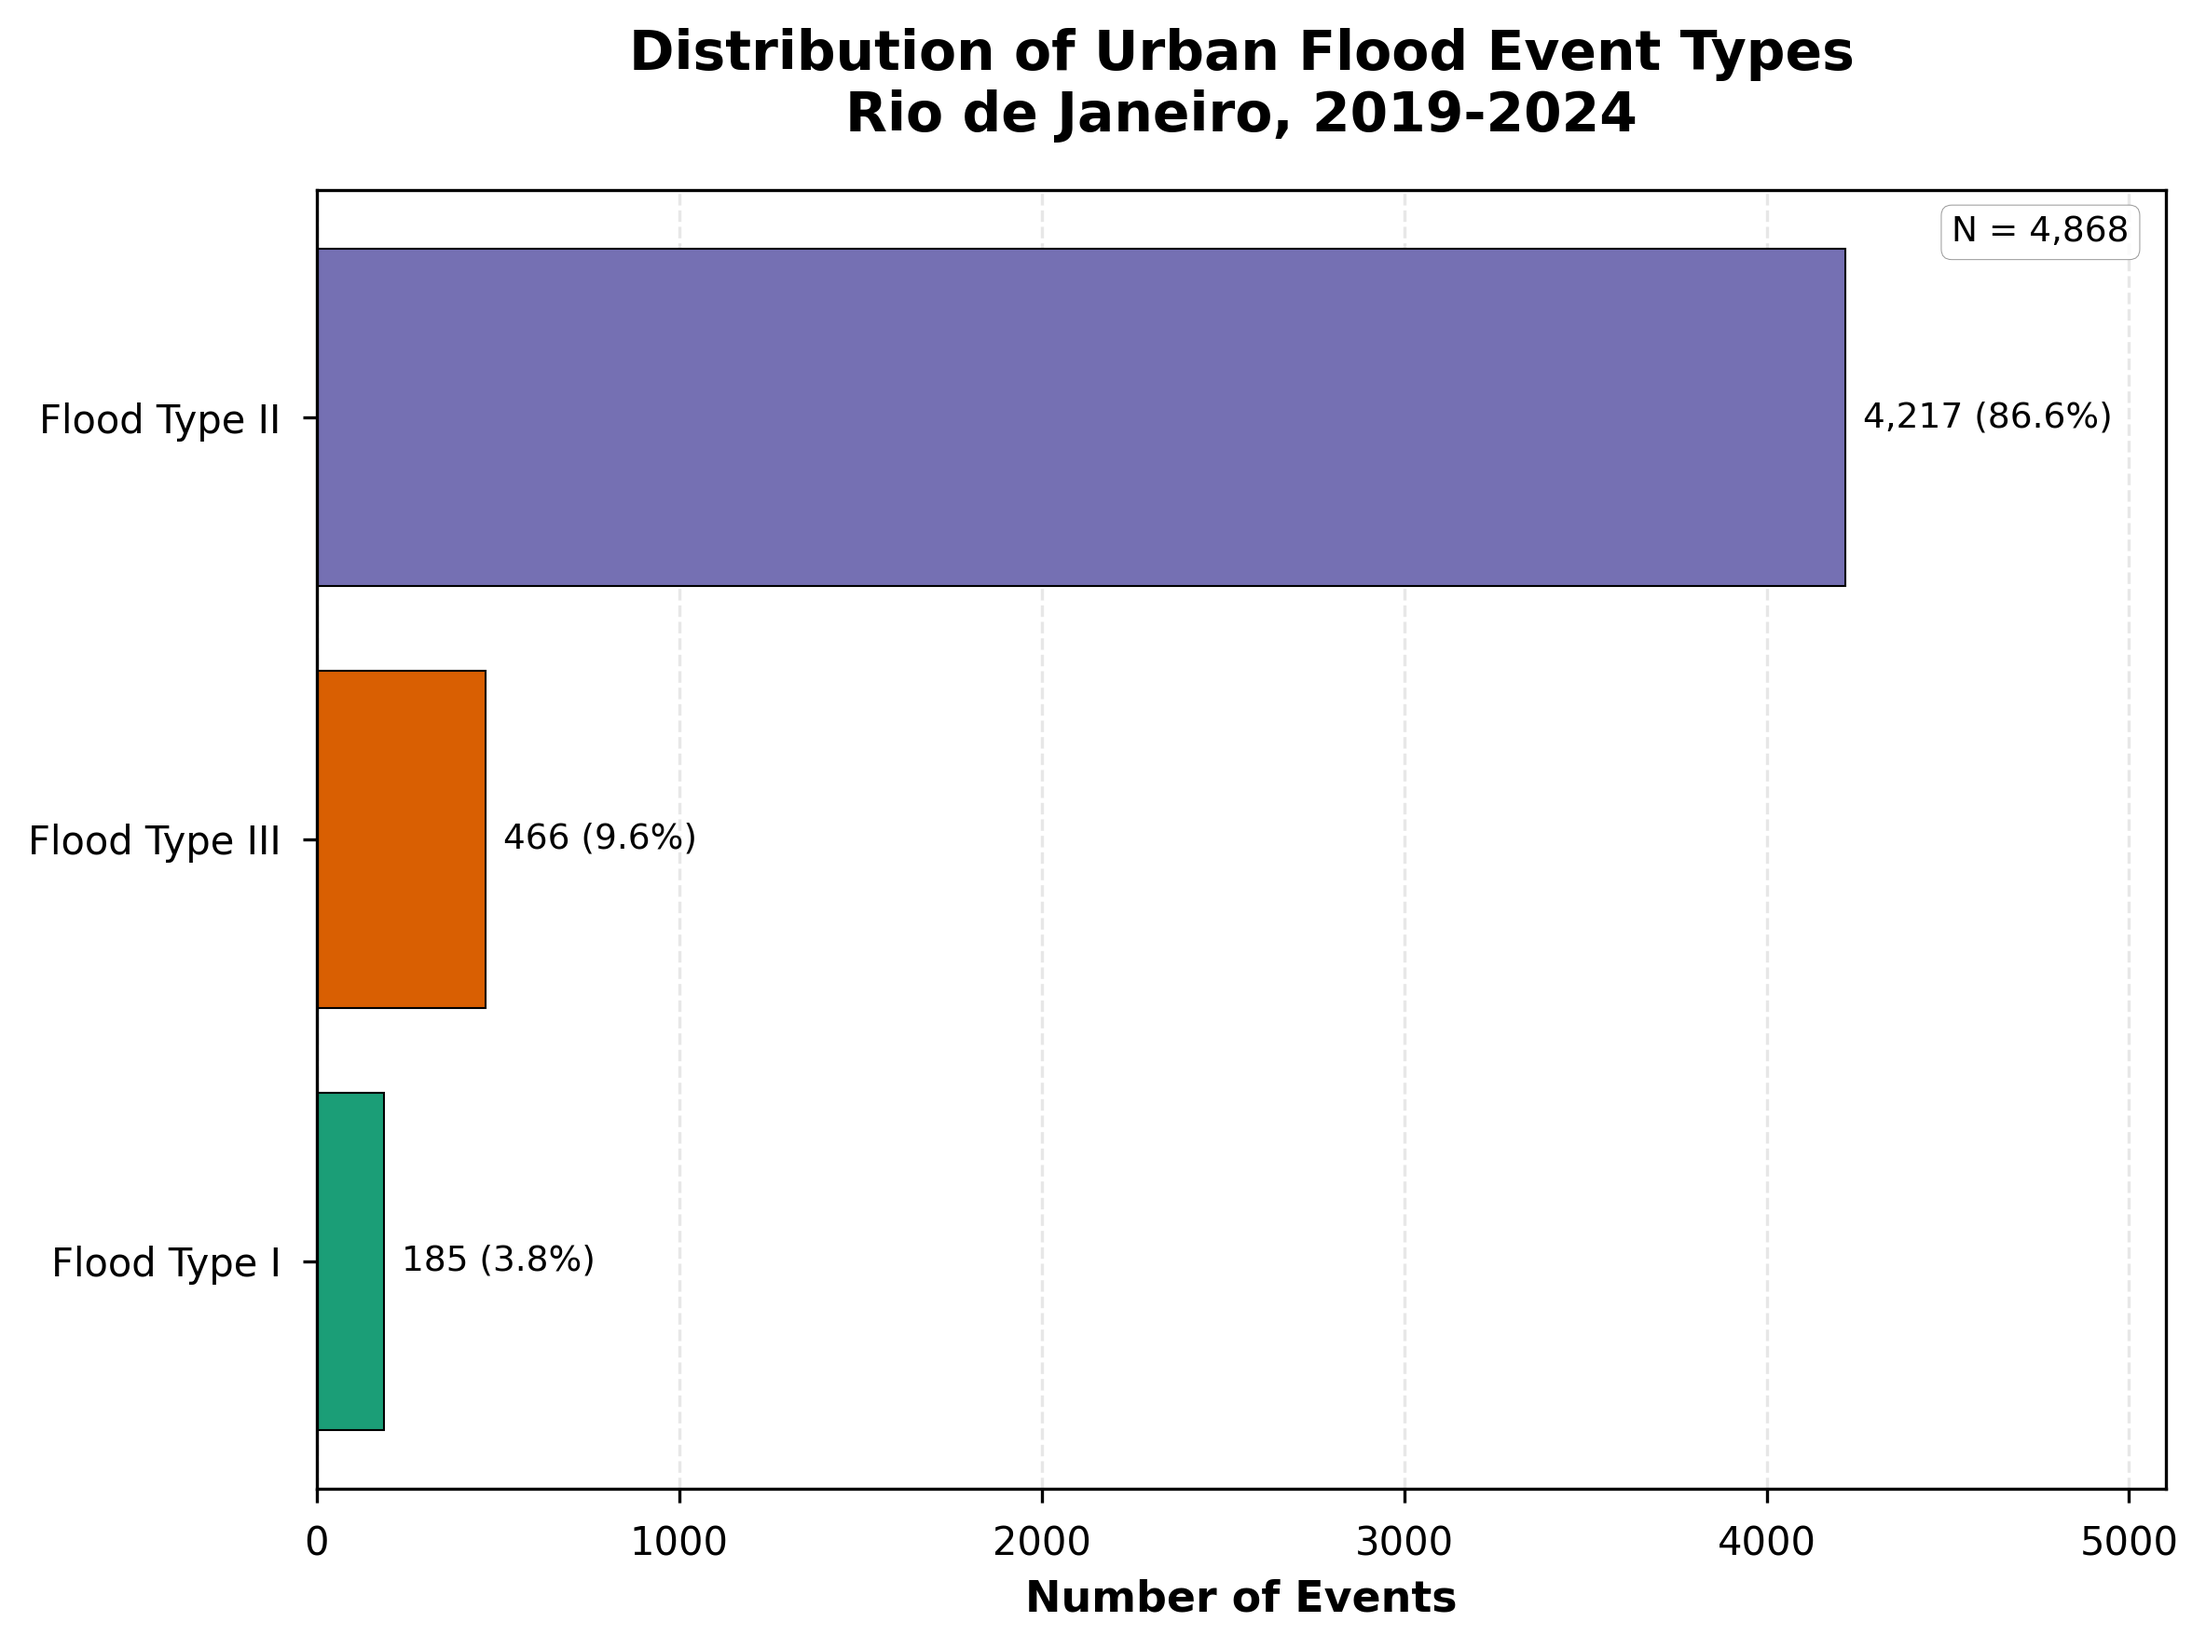
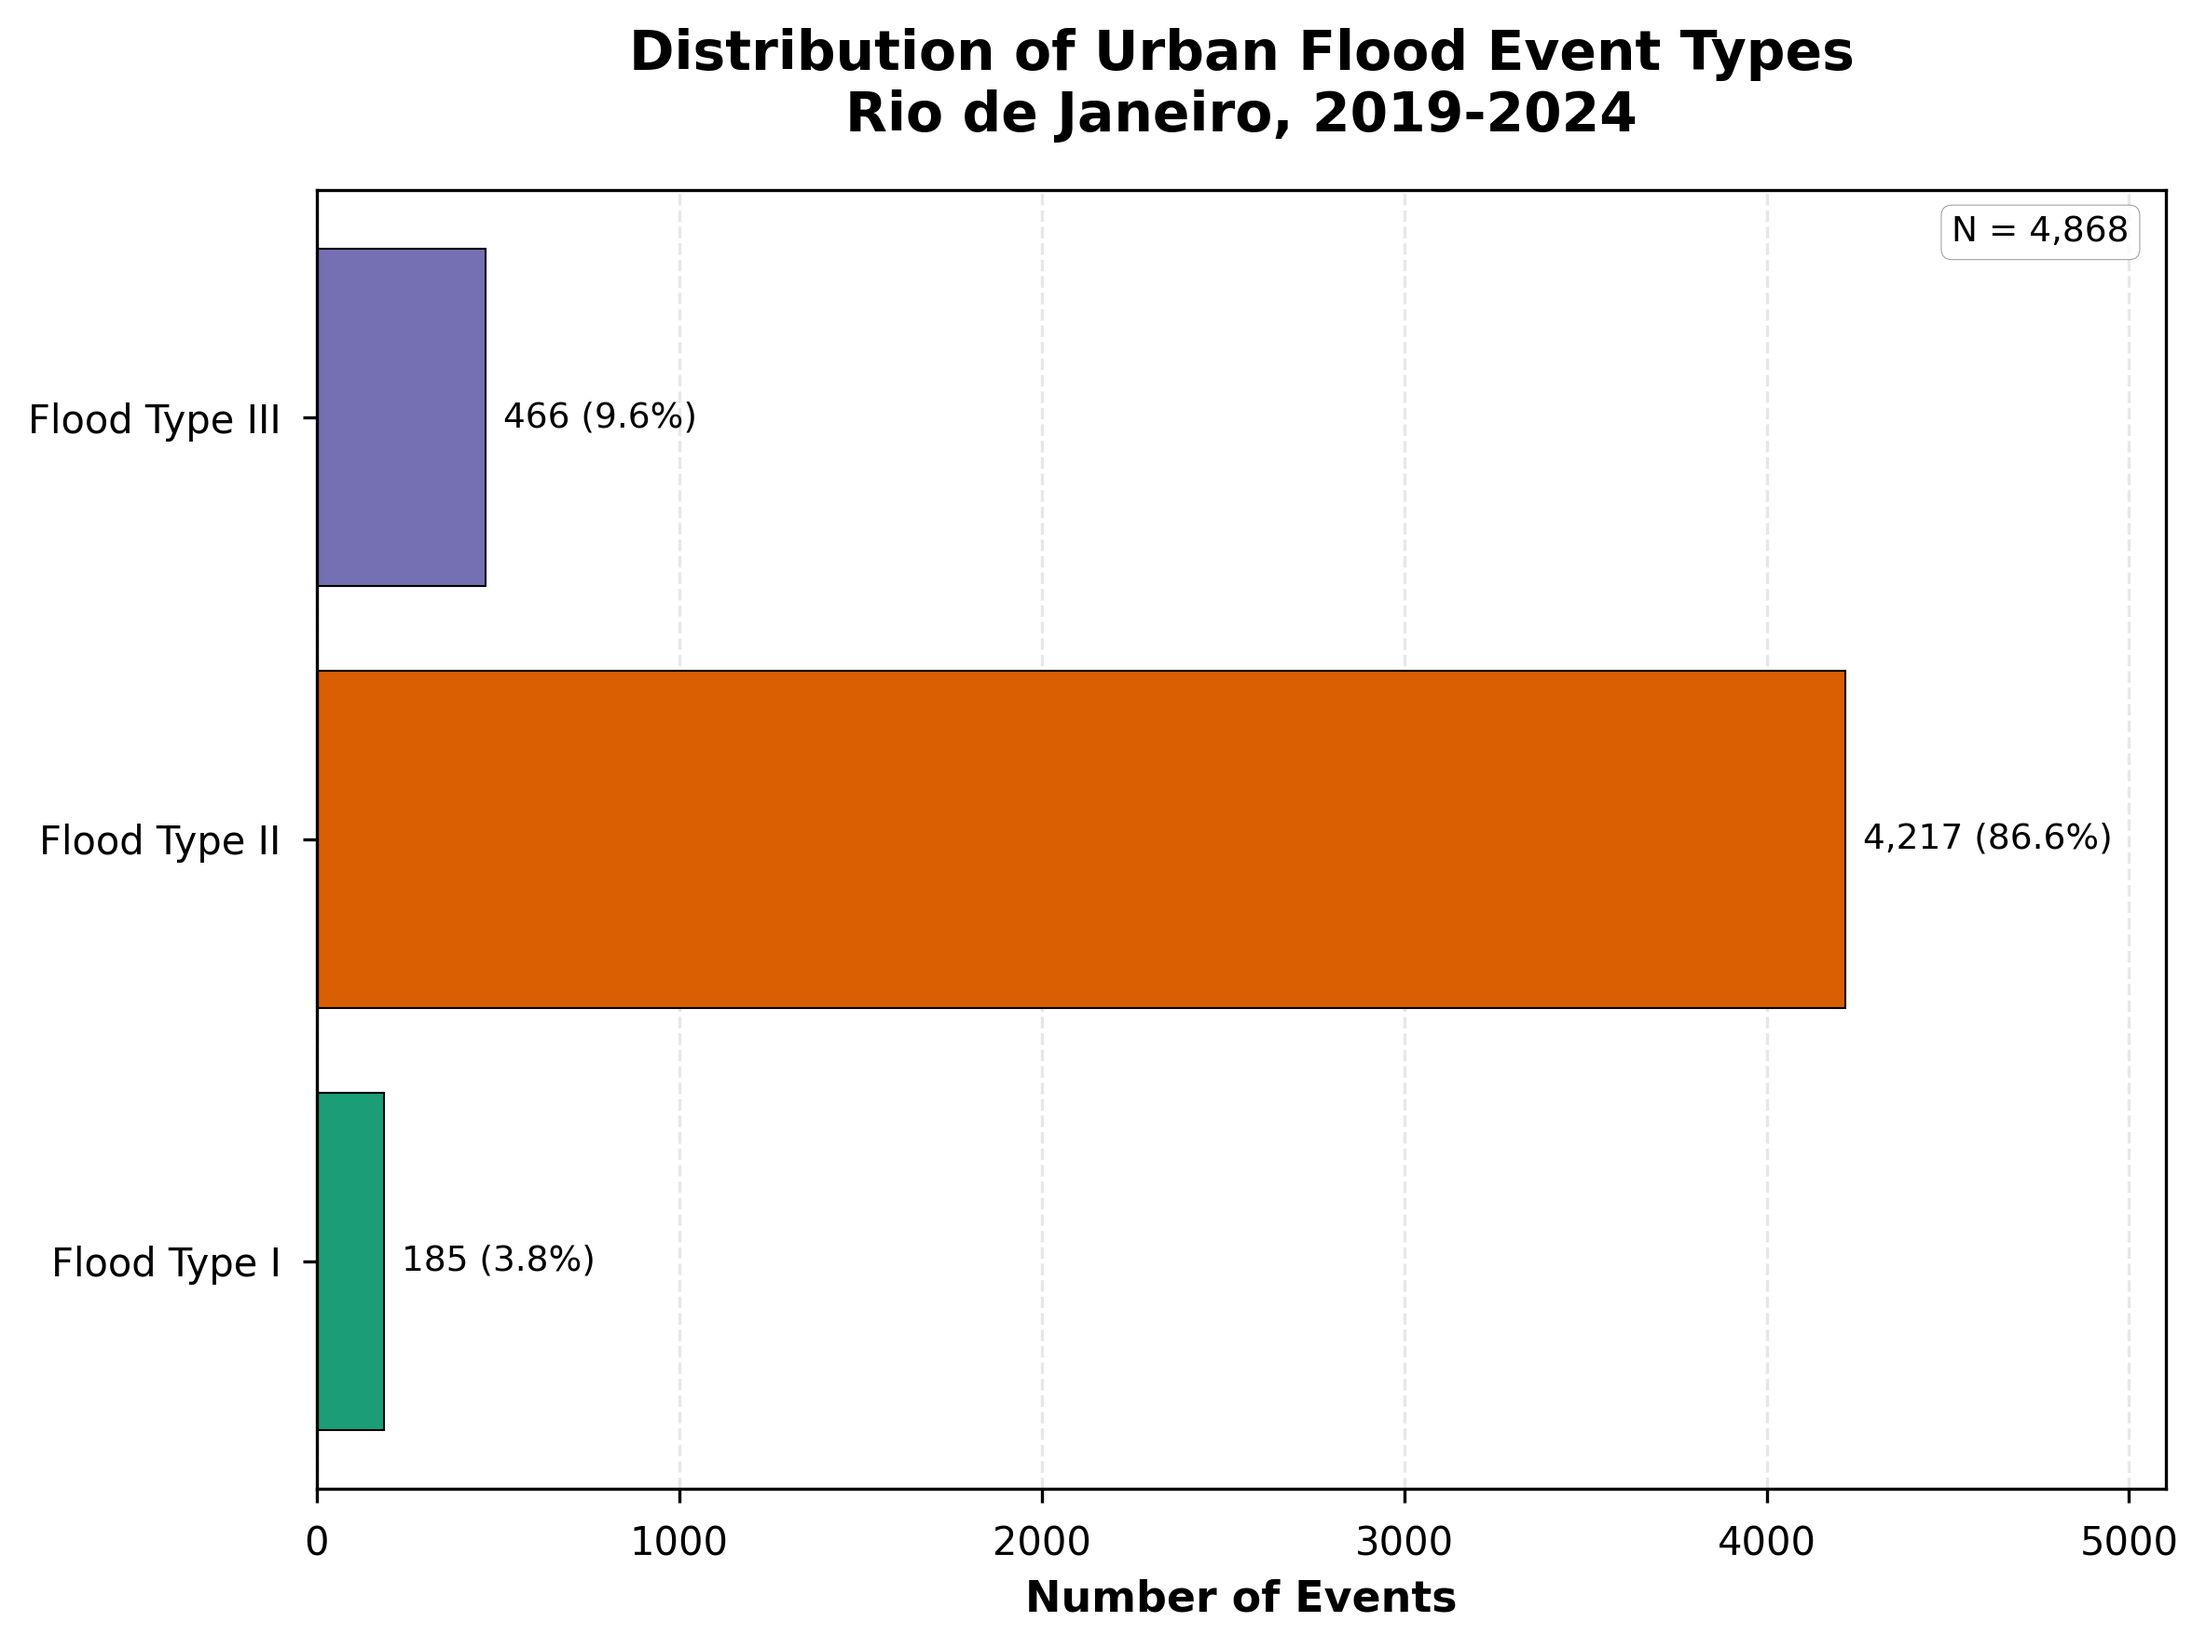
Update event type and duration charts to enforce flood type ordering
- Modified `chart_01_event_types.py` and `chart_07a_duration_by_type.py` to implement a predefined order for flood types in the visualizations.
- Adjusted data handling to ensure that only existing flood types are included in the charts.
- Updated binary chart files `chart_01_event_types.png` and `chart_07a_duration_by_type.png` to reflect these changes.

diff --git a/scripts/charts/v1/chart_07a_duration_by_type.py b/scripts/charts/v1/chart_07a_duration_by_type.py
@@ -70,8 +70,11 @@ def create_duration_by_type_chart(ocorrencias):
     
     # Panel A: Box plot by event type (< 12 hours)
     ax1 = axes[0]
-    event_types = ocorrencias_filtered['tipo'].value_counts().index.tolist()
-    event_types = [event_types[1], event_types[0], event_types[2]] + event_types[3:]
+    # Define order for flood types
+    flood_type_order = ['Flood Type I', 'Flood Type II', 'Flood Type III']
+    # Get available event types in the correct order
+    available_types = [t for t in flood_type_order if t in ocorrencias_filtered['tipo'].values]
+    event_types = available_types
     data_by_type = [ocorrencias_filtered[ocorrencias_filtered['tipo'] == t]['duration_hours'].dropna() 
                     for t in event_types]
     
@@ -114,8 +117,11 @@ def create_duration_by_type_chart(ocorrencias):
     
     # Panel B: Mean duration by event type with error bars (all data)
     ax2 = axes[1]
+    # Define order for flood types
+    flood_type_order = ['Flood Type I', 'Flood Type II', 'Flood Type III']
     type_stats = ocorrencias.groupby('tipo')['duration_hours'].agg(['mean', 'std', 'count', 'sem'])
-    type_stats = type_stats.sort_values('mean', ascending=False)
+    # Reindex to ensure correct order, only including types that exist
+    type_stats = type_stats.reindex([t for t in flood_type_order if t in type_stats.index])
     
     bars = ax2.barh(range(len(type_stats)), type_stats['mean'],
                     xerr=type_stats['sem'], capsize=5,

diff --git a/scripts/charts/v1/chart_01_event_types.py b/scripts/charts/v1/chart_01_event_types.py
@@ -42,8 +42,13 @@ def create_event_type_chart(ocorrencias):
     """Create bar chart of event type distribution"""
     setup_plot_style()
     
-    # Calculate event type counts
-    event_counts = ocorrencias['tipo'].value_counts().sort_values(ascending=True)
+    # Define order for flood types
+    flood_type_order = ['Flood Type I', 'Flood Type II', 'Flood Type III']
+    
+    # Calculate event type counts and sort by predefined order
+    event_counts = ocorrencias['tipo'].value_counts()
+    # Reindex to ensure correct order, only including types that exist
+    event_counts = event_counts.reindex([t for t in flood_type_order if t in event_counts.index])
     total_events = len(ocorrencias)
     percentages = (event_counts / total_events * 100)
     
